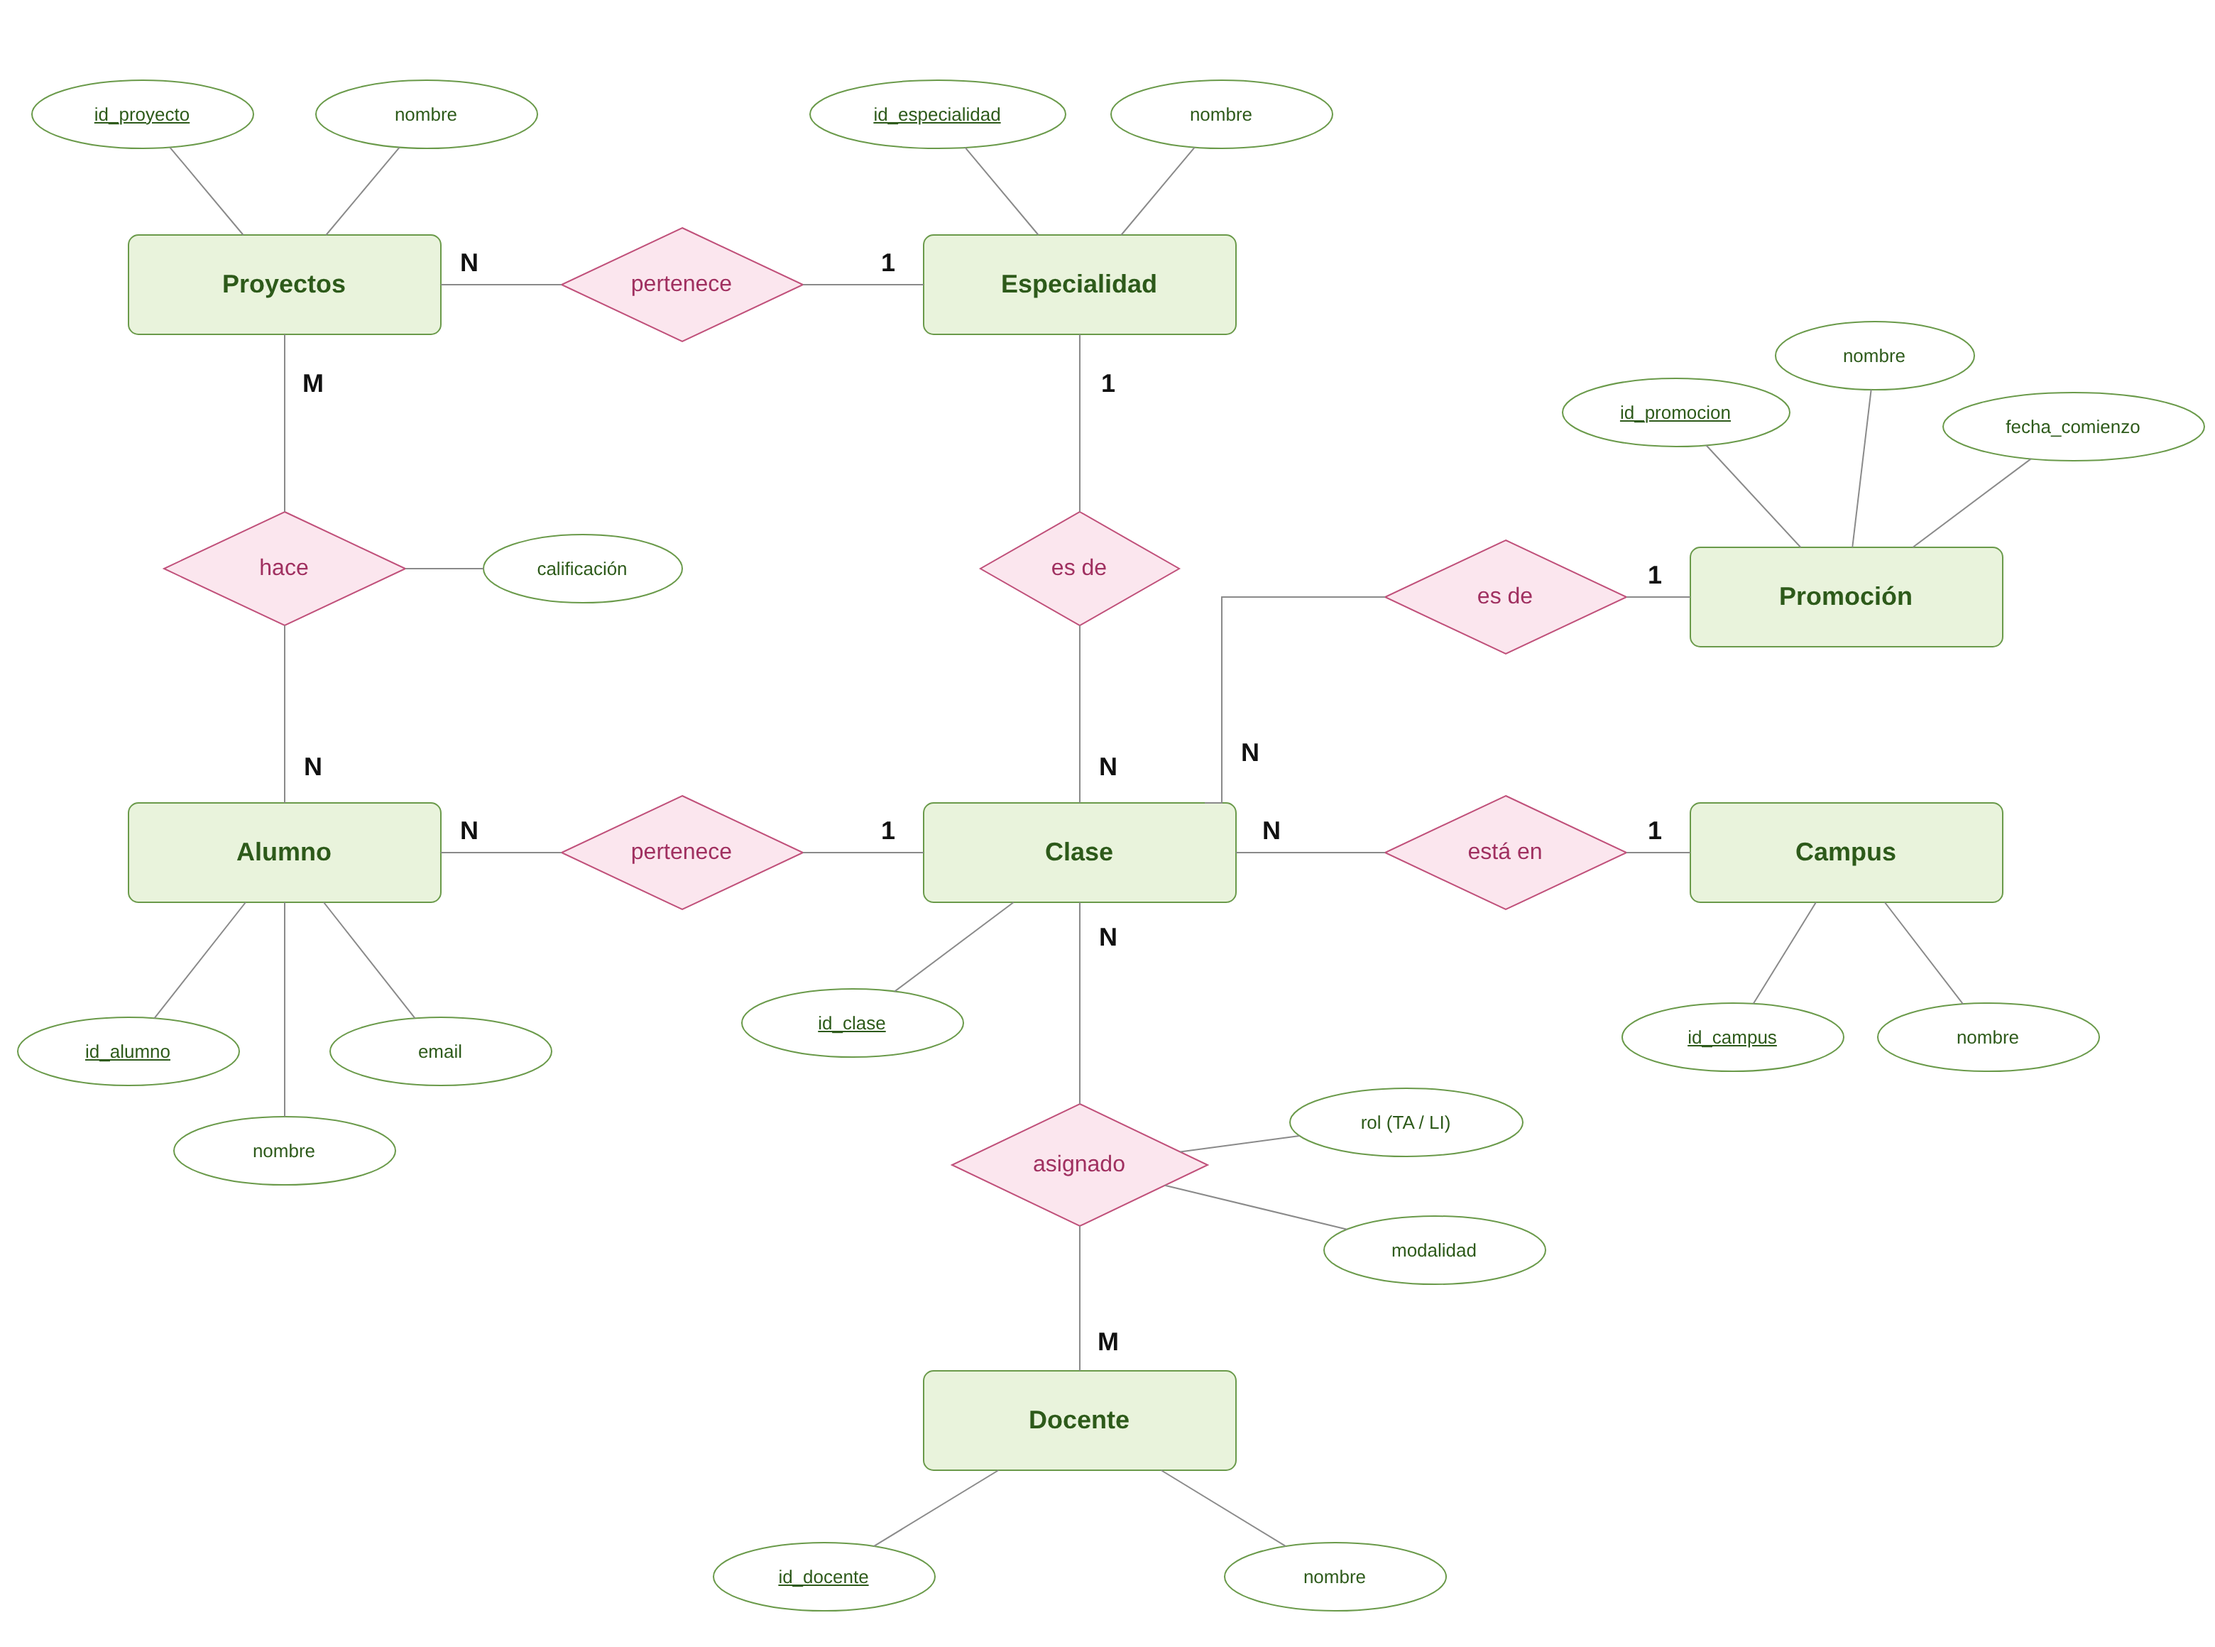
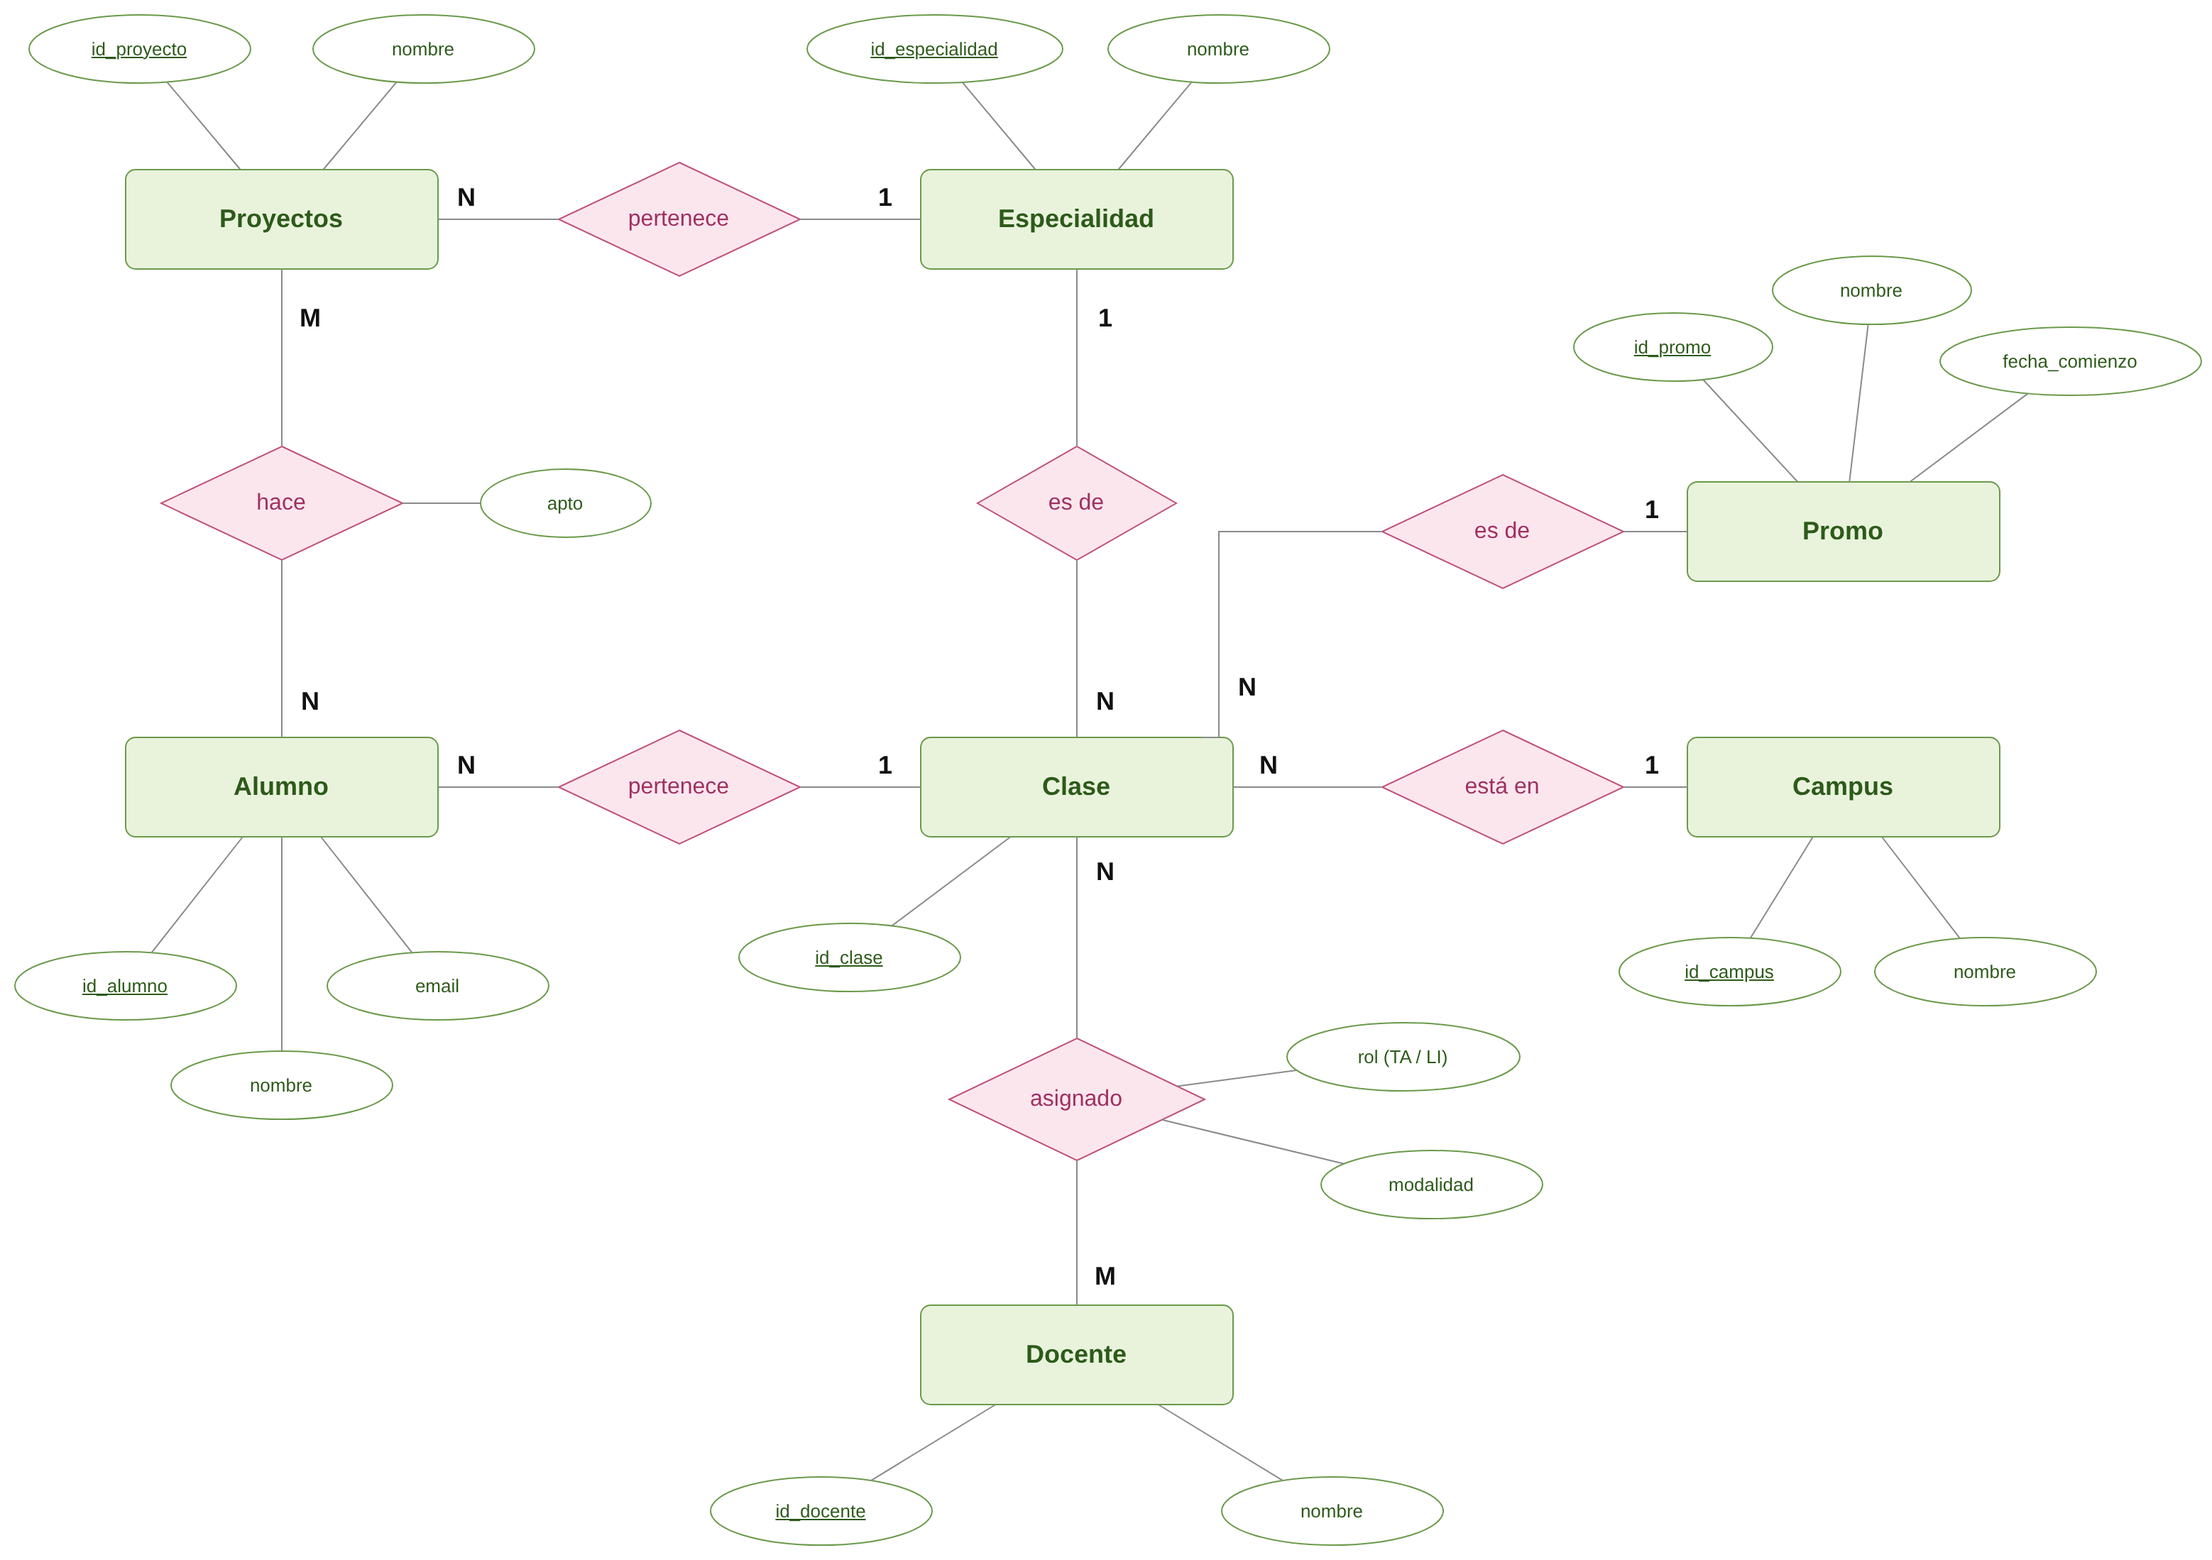
actualizacion de archivos tipo imagen

diff --git a/README.md b/README.md
@@ -2,26 +2,21 @@
 
 Base de datos relacional en **PostgreSQL**, alojada en **Supabase**, creada a partir de los datos sin normalizar de los alumnos y el claustro de una escuela de bootcamps (Data Science y Full Stack).
 
-## Realizado en equipo
-
 
 ## Entregables
 
-| Entregable |    |
-|---|---|
-| Diagrama entidad-relación | 
-| Diagrama del modelo lógico | 
-| Script de creación de tablas |
-| Script de carga de datos | 
-| Consultas de demostración | 
-
+- Diagrama entidad-relación
+- Diagrama del modelo lógico
+- Script de creación de tablas
+- Script de carga de datos
+- Consultas de demostración
 
 ## Datos de entrada
 
 En [`data/`](data/) están los 5 CSV originales (separador `;`):
 
 - `clase_1.csv` … `clase_4.csv`: 52 alumnos, con el resultado (Apto / No Apto) de sus 5 proyectos.
-- `claustro.csv`: 10 docentes, con su rol (TA / LI), vertical, promoción, campus y modalidad.
+- `claustro.csv`: 10 docentes, con su rol (TA / LI), vertical (especialidad), promoción (promo), campus y modalidad.
 
 ## Modelo de datos
 
@@ -29,26 +24,27 @@ En [`data/`](data/) están los 5 CSV originales (separador `;`):
 
 | Tipo | Tablas |
 |---|---|
-| Catálogos | `especialidad`, `promocion`, `campus`, `docente` |
-| Entidades | `clase` (especialidad + promoción + campus), `proyecto`, `alumno` |
-| Relaciones N:M | `hace` (alumno × proyecto → `apto`, la calificación) · `asignado` (docente × clase → `rol`, `modalidad`) |
+| Catálogos | `especialidad`, `promo`, `campus` |
+| Entidades | `clase` (especialidad + promo + campus), `proyecto`, `alumno`, `docente` |
+| Relaciones N:M | `hace` (alumno × proyecto → `apto`) · `asignado` (docente × clase → `rol`, `modalidad`) |
 
 ### Normalización
 
 - **1FN:** las columnas `Proyecto_*` de los CSV pasan a ser filas de la tabla `hace`.
 - **2FN:** en las tablas con clave compuesta, cada dato depende de la clave completa. Por ejemplo, `apto` depende del alumno **y** del proyecto.
-- **3FN:** sin dependencias transitivas. Por ejemplo, `fecha_comienzo` se guarda una sola vez en `promocion`, y el alumno solo guarda `id_clase`.
+- **3FN:** sin dependencias transitivas. Por ejemplo, fecha_comienzo depende de la promoción, no del alumno, así que se guarda una sola vez en `promo` y el alumno solo guarda `id_clase`.
 
 ## Cómo crear la base de datos
 
 1. Crear un proyecto PostgreSQL en [Supabase](https://supabase.com) (también vale Render u otro servidor PostgreSQL).
 2. En el **SQL Editor**, ejecutar en este orden:
-   1. `sql/01_crear_tablas.sql`
-   2. `sql/02_insertar_datos.sql`
-3. Probar las consultas de `sql/03_consultas_demo.sql`.
+   1. `querysCreateTables.sql`
+   2. `querysInsertData.sql`
+3. Probar las consultas de demostración (capturas `demostracion1.png`, `demostracion2.png` y `demostracion3.png`).
 
 Para conectarse desde aplicaciones de terceros (pgAdmin, DBeaver, Python), usar los datos de **Connect** en Supabase con `SSL mode = require`.
 
+> ⚠ Las credenciales de la base de datos **no se suben a este repositorio**. 
 
 ## Escalabilidad
 
